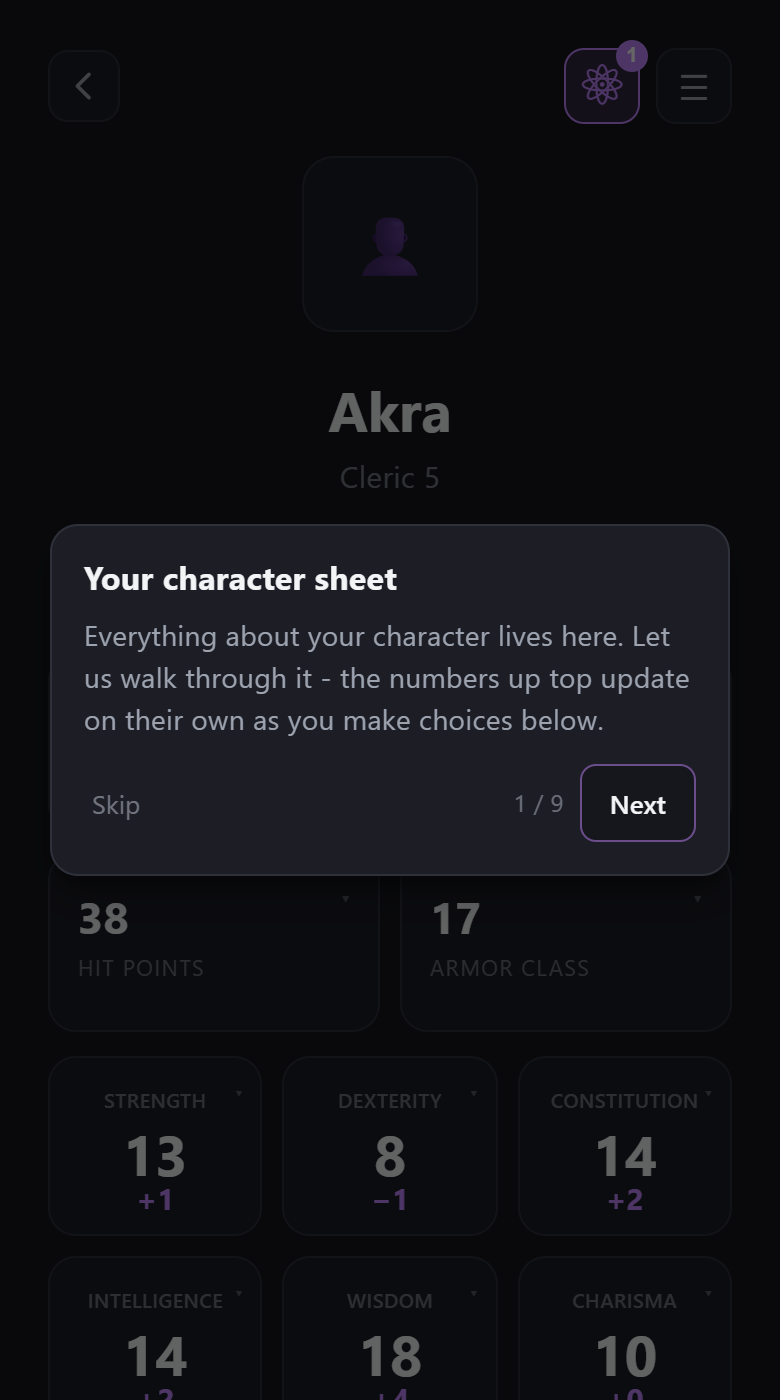
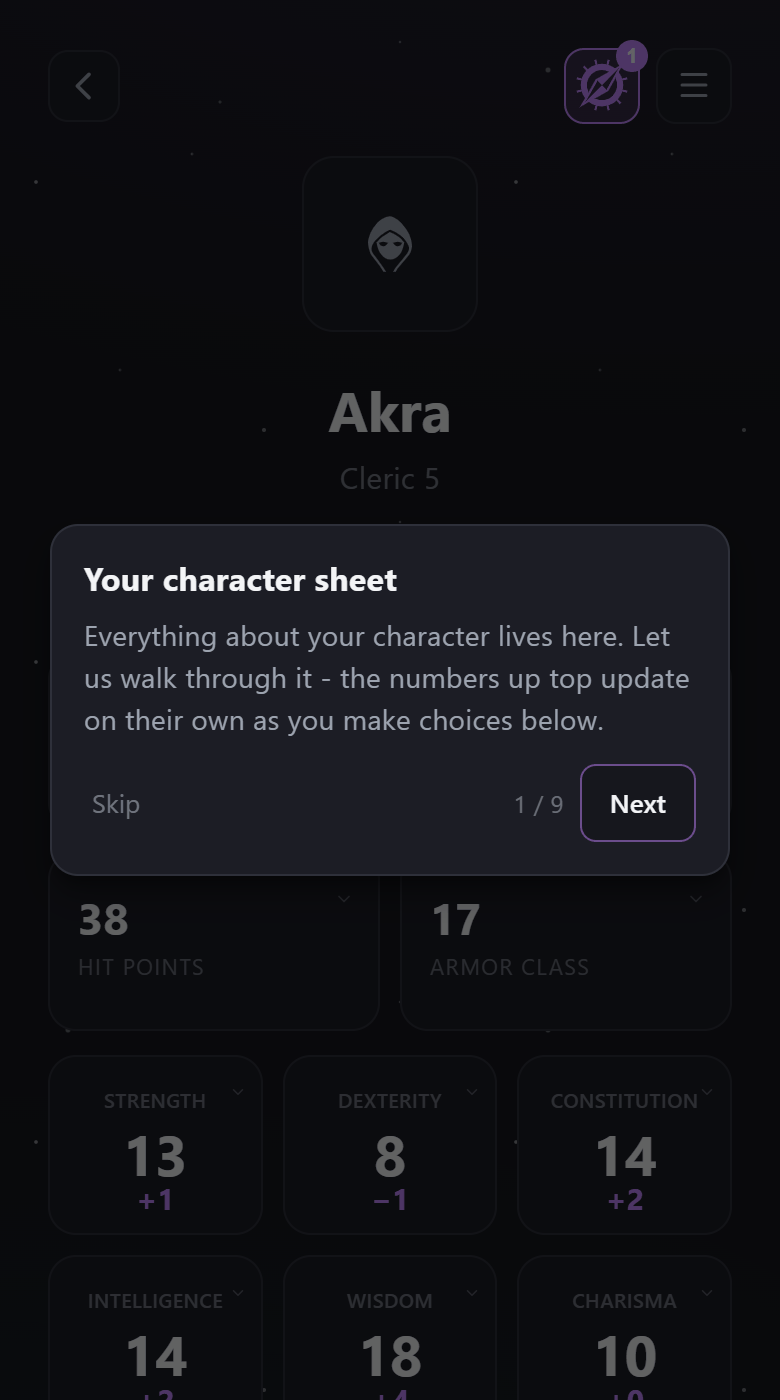
README com o visual novo: imagens refeitas, os tres temas e as features
Synced from the development repository (aa598ff).

diff --git a/README.md b/README.md
@@ -14,7 +14,7 @@
 </p>
 
 <p align="center">
-  <img src="docs/images/mobile.png" alt="FlyBy on a phone: the character list, a character sheet and its spellbook" width="100%">
+  <img src="docs/images/mobile.png" alt="FlyBy on a phone: the character list in the Dark theme, a character sheet in the Parchment theme and its spellbook in the Light theme" width="100%">
 </p>
 
 ## What is FlyBy?
@@ -107,6 +107,16 @@ Spells, conditions, actions and rules mentioned anywhere in the app are links. T
 
 **Foundry VTT, both ways.** Export a character as a file that Foundry VTT (with its D&amp;D 5e system) opens with everything set up: class features, proficiencies, inventory, spells, and buttons to roll attacks and checks. You can also import a Foundry character back into FlyBy.
 
+### Three themes
+
+Pick the look you like in **☰ > Settings**: **Dark**, **Light**, or **Parchment**, a warm paper look with classic fantasy lettering. By default FlyBy follows your device's light or dark mode. Each theme has its own subtle background and ornaments, and the app uses its own icons, so it looks the same on every phone.
+
+<p align="center"><img src="docs/images/themes.png" alt="The same character sheet in the Dark, Light and Parchment themes" width="100%"></p>
+
+### Feels like an app on your phone
+
+Install it on your home screen and it opens in its own window and works offline (see Getting started). The phone's back gesture closes whatever is open (a menu, a window, the filters) before it leaves the page, and inside the guide it goes back one step. Screens and cards move with short animations, and they stay still if your device asks for reduced motion.
+
 ## Getting started
 
 FlyBy runs in your web browser, on a phone or a computer: open **[flyby-hub.web.app](https://flyby-hub.web.app)**. You can use it right there, or install it like an app (step 4).
@@ -152,9 +162,6 @@ Yes. FlyBy is free and open source.
 **Where are the credits?**
 In the app, under **☰ > About FlyBy**: the SRD 5.2 attribution, the icons (from game-icons.net and Lucide), the fonts and the libraries FlyBy is built with. The full license texts are in the [NOTICE](NOTICE) file.
 
-**Can I change how it looks?**
-Yes: **☰ > Settings** switches the theme between Dark, Light and Parchment, or follows your device's light or dark mode (the default).
-
 **Do I need an account?**
 No. There is no sign-up and no login: open it and start.
 
@@ -168,10 +175,12 @@ The **System Reference Document 5.2** (SRD), the free rules content published by
 Open a **setup link** if someone gave you one, or go to **☰ > Game data > Game data source**, paste the address of your data (a GitHub repository or release link, the address of a game data folder in the 5etools format, or the whole setup link) and tap **Use this address**. FlyBy checks that it finds game data there before switching, then downloads the content once and keeps a copy on your device. You can switch back to the built-in SRD 5.2 at any time from the same menu; your characters are not affected.
 
 **What address does FlyBy accept?**
-The `https://` address of a folder of game data, the folder that holds the files listed below. The address must start with `https://`; a final `/` is optional. A few examples of what works:
+Whatever is easiest to copy. FlyBy checks the address and tells you if it finds no game data there before switching. It understands:
 
-- A folder in a GitHub repository, through its raw address: `https://raw.githubusercontent.com/<owner>/<repository>/<branch>/data/`. This is the best option: when the files are in a folder named `data` at the root of the repository, FlyBy downloads only the files that changed when it checks for updates.
-- Any other web server or file host, as long as it serves the files over `https` and allows web pages from other sites to read them (the server sends an `Access-Control-Allow-Origin` header). On these, FlyBy downloads every file again when it updates, about once a month.
+- **A GitHub repository**, `https://github.com/<owner>/<repository>`, or a link to one of its folders or files. This is the best option: when the game data is in a folder named `data` at the root of the repository, FlyBy downloads only the files that changed when it checks for updates.
+- **A GitHub release**, `https://github.com/<owner>/<repository>/releases/tag/<version>` (or `/releases/latest`). The data then stays at that version.
+- **The address of a folder of game data** on any web server or file host, as long as it serves the files over `https` and allows web pages from other sites to read them (the server sends an `Access-Control-Allow-Origin` header). On these, FlyBy downloads every file again when it updates, about once a month.
+- **A setup link** someone shared with you.
 
 **What format does the game data need to be in?**
 The JSON data format of the open-source 5e.tools project: the same folder layout, file names and fields. A copy of that project's `data` folder, or a mirror of it, works as it is. A source does not need every file: anything missing is simply left out (the **Game data source** menu tells you how many files a source is missing), but a source with none of them is treated as a wrong address.
@@ -221,10 +230,10 @@ Game content uses the data format of the open-source [5e.tools](https://5e.tools
 
 ## Credits and license
 
-The code is MIT licensed ([LICENSE](LICENSE)). Third-party material and its licenses are listed in [NOTICE](NOTICE).
+The code is MIT licensed ([LICENSE](LICENSE)). Third-party material and its licenses are listed in [NOTICE](NOTICE) and, inside the app, under **☰ > About FlyBy**: the icons come from [game-icons.net](https://game-icons.net) (CC BY 3.0, credited by author) and [Lucide](https://lucide.dev) (ISC), and the Parchment theme uses the Cinzel and Alegreya fonts (SIL Open Font License).
 
 This work includes material from the System Reference Document 5.2 ("SRD 5.2") by Wizards of the Coast LLC, available at https://www.dndbeyond.com/srd. The SRD 5.2 is licensed under the Creative Commons Attribution 4.0 International License, available at https://creativecommons.org/licenses/by/4.0/legalcode.
 
 FlyBy is an unofficial fan-made tool. It is not affiliated with, endorsed, sponsored or approved by Wizards of the Coast, 5e.tools or Foundry Gaming LLC. Thanks to the 5e.tools community for the data format that makes this app possible.
 
-<sub>The screenshots show the built-in SRD 5.2 content and the official SRD premade characters, imported from their Foundry VTT files.</sub>
+<sub>The screenshots show the built-in SRD 5.2 content and the official SRD premade characters, imported from their Foundry VTT files, in the Dark theme unless noted.</sub>
